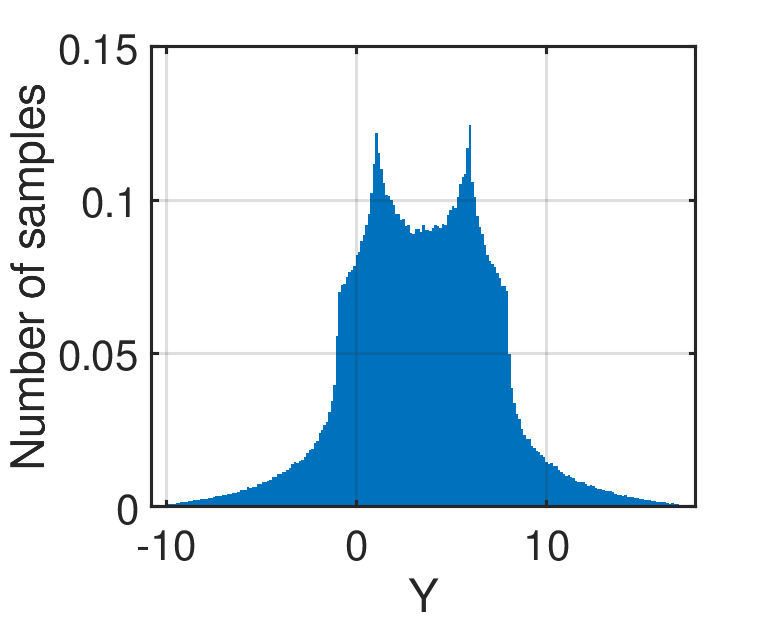
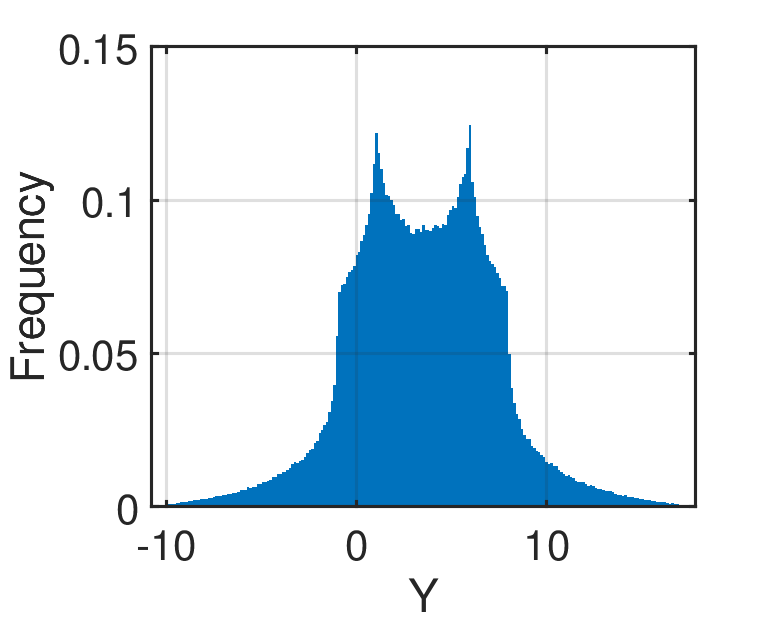
Add Ishigami test function

Changed region(s): [[0.0, 0.1228, 0.0624, 0.7674]]

diff --git a/test-functions/ishigami/uq_ishigami.m b/test-functions/ishigami/uq_ishigami.m
@@ -1,0 +1,42 @@
+function Y = uq_ishigami(X,P)
+% UQ_ISHIGAMI computes the Ishigami function.
+%
+%   Y = UQ_ISHIGAMI(X) evaluates the Ishigami function for N-by-3 input 
+%   matrix X, where N is the number of evaluation points with default 
+%   parameter values a = 7 and b = 0.1. The function returns a column 
+%   vector of length N.
+%
+%   Y = UQ_ISHIGAMI(X,P) evaluates the Ishigami function with an additional
+%   user-specified parameters stored in P with P = [a, b].
+%
+%   Reference:
+%
+%   - Ishigami, T. and T. Homma. (1990). An importance quantification
+%     technique in uncertainty analysis for computer models.
+%     In the First International Symposium on Uncertainty Modeling and
+%     Analysis, Maryland, USA, Dec. 3-5. DOI:10.1109/ISUMA.1990.151285
+%
+
+%% Check inputs
+%
+narginchk(1,2)
+assert(size(X,2)==3,'Only 3 input variables are allowed!')
+
+%% Assign default parameter values
+%
+switch nargin
+    case 1
+        a = 7;
+        b = 0.1;
+    case 2 
+        a = P(1);
+        b = P(2);
+    otherwise    
+        error('Number of input arguments not accepted!');
+end
+
+%% Evaluate the function
+%
+Y = sin(X(:,1)) + a*(sin(X(:,2)).^2) + b*(X(:,3).^4).* sin(X(:,1));
+
+end

diff --git a/test-functions/ishigami/uq_Example_ishigami.m b/test-functions/ishigami/uq_Example_ishigami.m
@@ -1,0 +1,33 @@
+%% FOUR-BRANCH FUNCTION
+%
+% This script contains the model and probabilistic input definitions for
+% the 3-dimensional Ishigami function.
+
+%% 1 - INITIALIZE UQLAB
+%
+clearvars
+uqlab
+
+%% 2 - COMPUTATIONAL MODEL
+%
+ModelOpts.Name = 'ishigamiFunctionModel';
+ModelOpts.mFile = 'uq_ishigami';
+ModelOpts.isVectorized = true;
+
+myModel = uq_createModel(ModelOpts);
+
+%% 3 - PROBABILISTIC INPUT MODEL
+%
+InputOpts.Marginals(1).Name = 'X1';
+InputOpts.Marginals(1).Type = 'Uniform';
+InputOpts.Marginals(1).Parameters = [-pi pi];
+
+InputOpts.Marginals(2).Name = 'X2';
+InputOpts.Marginals(2).Type = 'Uniform';
+InputOpts.Marginals(2).Parameters = [-pi pi];
+
+InputOpts.Marginals(3).Name = 'X3';
+InputOpts.Marginals(3).Type = 'Uniform';
+InputOpts.Marginals(3).Parameters = [-pi pi];
+
+myInput = uq_createInput(InputOpts);

diff --git a/test-functions/ishigami/ishigamiPlot.m b/test-functions/ishigami/ishigamiPlot.m
@@ -27,6 +27,6 @@ Y = uq_evalModel(myModel,X);
 uq_figure('Position', [50 50 500 400]);
 uq_histogram(Y);
 xlabel('Y')
-ylabel('Number of samples')
+ylabel('Frequency')
 
 saveas(gcf, 'ishigamiHistogram.png')

diff --git a/test-functions/ishigami/ishigami.md b/test-functions/ishigami/ishigami.md
@@ -1,7 +1,7 @@
 # Ishigami Function
 
 [//]: # "Benchmark type: test-function"
-[//]: # "Application fields: sensitivity, uncertainty-quantification"
+[//]: # "Application fields: sensitivity"
 [//]: # "Dimension: 3-dimension"
 
 The Ishigami function is commonly used as a test function to benchmark global sensitivity analysis methods (Ishigami and Homma, 1990; Sobol' and Levitan, 1999; Marrel et al., 2009).
@@ -14,32 +14,29 @@ $$
 f(\mathbf{x}) = \sin{x_1} + a \sin^2{x_2} + b x_3^4 \sin{x_1}
 $$
 
-where $\mathbf{x} = \{x_1, x_2,x_3\} \in [-\pi, \pi]^3$ are input variables; while $a$ and $b$ are constants.
-
-The Ishigami function is highly nonlinear and non-monotonous, particularly influenced by $x_3$.
+where $\mathbf{x} = \{x_1, x_2,x_3\} \in [-\pi, \pi]^3$ are input variables; while $a$ and $b$ are parameters.
 
 ![ishigamiHistogram|200x200](./ishigamiHistogram.png)
 **Figure 1**: The histogram of the Ishigami function based on $10^6$ sample points.
 
-
 ## Inputs
 
-For computer experiment purposes, the inputs $x_1, x_2,x_3$ are modeled as three independent uniform random variables.
+For computer experiment purposes, the inputs $x_1, x_2, x_3$ are modeled as three independent uniform random variables.
 
-| No   | Variable | Distribution | Parameters                        |
-| ---- | -------- | ------------ | --------------------------------- |
-| 1    | $x_1$    | Uniform     | $x_{1,\min} = -\pi, x_{1,\max} = \pi$ |
-| 2    | $x_2$    | Uniform     | $x_{2,\min} = -\pi, x_{2,\max} = \pi$ |
-| 3    | $x_2$    | Uniform     | $x_{3,\min} = -\pi, x_{3,\max} = \pi$ |
+|No |Variable|Distribution|Parameters|
+|:-:|:------:|:----------:|:--------:|
+| 1 | $x_1$  | Uniform    | $x_{1,\min} = -\pi$,<br/>$x_{1,\max} = \pi$ |
+| 2 | $x_2$  | Uniform    | $x_{2,\min} = -\pi$,<br/>$x_{2,\max} = \pi$ |
+| 3 | $x_2$  | Uniform    | $x_{3,\min} = -\pi$,<br/>$x_{3,\max} = \pi$ |
 
-## Constants
+## Parameters
 
-The constants of the Ishigami functions differs according to the literature shown in the table below.
+The parameters of the Ishigami function differ according to the literature as shown in the table below.
 
-| No | Constants | Value |
-| :-: | :-: | :-: |
-| 1 | $a = 0.7$<br />$b = 0.1$ | Marrel et al. (2009) |
-| 2 | $a = 0.7$<br />$b = 0.05$ | Sobol' and Levitan (1999) |
+|No |Value|Source|
+|:-:|:---:|:-----|
+| 1 | $a = 0.7$<br/>$b = 0.1$  | Marrel et al. (2009) |
+| 2 | $a = 0.7$<br/>$b = 0.05$ | Sobol' and Levitan (1999) |
 
 ## Reference values
 
@@ -47,9 +44,9 @@ The constants of the Ishigami functions differs according to the literature show
 
 The analytical solution for the first-order Sobol' indices of the Ishigami function as described above is:
 
-* $S_1 = \frac{V_1}{\mathbb{V}[Y]}$
-* $S_2 = \frac{V_2}{\mathbb{V}[Y]}$
-* $S_3 = \frac{V_3}{\mathbb{V}[Y]}$
+* $S_1 = \frac{V_1}{\mathbb{V}[Y]} = 0.3139$
+* $S_2 = \frac{V_2}{\mathbb{V}[Y]} = 0.4424$
+* $S_3 = \frac{V_3}{\mathbb{V}[Y]} = 0.$
 
 where:
 
@@ -74,9 +71,20 @@ where:
 
 ## Resources
 
+The vectorized implementation of the Ishigami function in MATLAB as well as the script file with the model and probabilistic inputs definitions for the function in UQLAB can be downloaded below:
+
+<a class="attachment" href="uq_ishigami.zip">uq_ishigami.zip</a>
+
+The contents of the file are:
+
+|Filename|Description|
+|:-------|:----------|
+| `uq_ishigami.m` | vectorized implementation of the Ishigami function in MATLAB |
+| `uq_Example_ishigami.m` | definitions for the model and probabilistic inputs in UQLab |
+| `LICENSE` | license for the function (BSD 3-Clause) |
 
 ## References
 
-* T. Ishigami and T. Homma, "An importance quantification technique in uncertainty analysis for computer models," In _the First International Symposium on Uncertainty Modeling and Analysis_, Maryland, USA, Dec. 3--5, 1990.  [DOI: 10.1109/ISUMA.1990.151285](https://doi.org/10.1109/ISUMA.1990.151285)
+* T. Ishigami and T. Homma, "An importance quantification technique in uncertainty analysis for computer models," In _the First International Symposium on Uncertainty Modeling and Analysis_, Maryland, USA, Dec. 3--5, 1990. [DOI:10.1109/SUMA.1990.151285](https://doi.org/10.1109/ISUMA.1990.151285)
 * I. M. Sobol' and Y. L. Levitan, "On the use of variance reducing multipliers in Monte Carlo computations of a global sensitivity index," _Computer Physics Communications_, vol. 117, no. 1, pp. 52--61, 1999. [DOI:10.1016/S0010-4655(98)00156-8](https://doi.org/10.1016/S0010-4655(98)00156-8)
 * A. Marrel, B. Iooss, B. Laurent, O. Roustant, "Calculatons of Sobol indices for the Gaussian process metamodel," _Reliability Engineering & System Safety_, vol. 94, no. 3, pp. 742--751, 2009. [DOI:10.1016/j.ress.2008.07.008](https://doi.org/10.1016/j.ress.2008.07.008)
